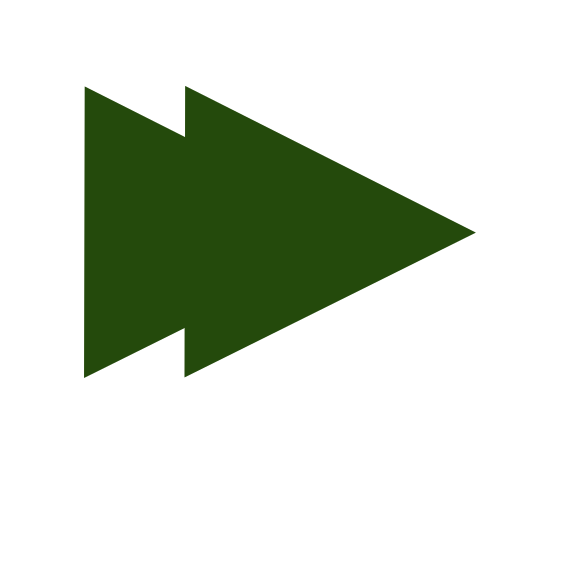
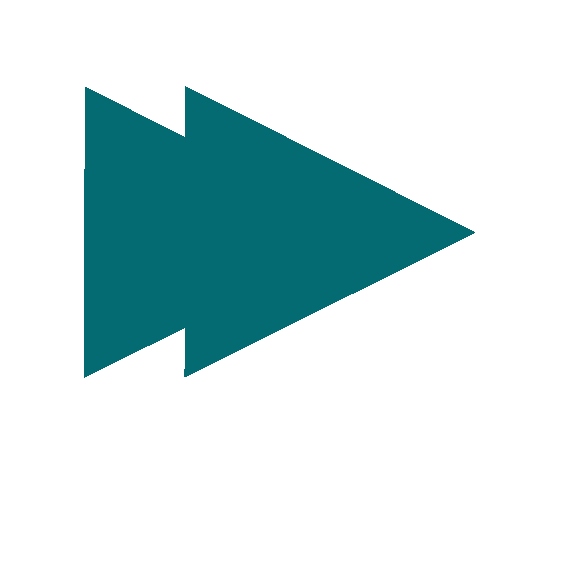
estilos añadidos

Changed region(s): [[0.1504, 0.1504, 0.8425, 0.6619]]

diff --git a/CuatroEnRayaSockets/build/classes/scripts/css/EstiloPrincipal.css b/CuatroEnRayaSockets/build/classes/scripts/css/EstiloPrincipal.css
@@ -1,0 +1,43 @@
+.borderPane {
+    -fx-background-color: #09CBD9;
+}
+
+.paneles {
+    -fx-background-color: #79e3f1;
+    -fx-border-color: #056B73;
+    -fx-border-width: 2px;
+}
+
+.paneles Label{
+    -fx-text-fill: #056B73;
+}
+
+.text-field {
+    -fx-background-color: #09D7E6;
+    -fx-text-fill: #056B73;
+}
+
+.button {
+    -fx-background-color: #09D7E6;
+    -fx-text-fill: #056B73;
+}
+
+.button:hover {
+    -fx-background-color: #05A3B3;
+    -fx-text-fill: white;
+}
+
+.combo-box{
+    -fx-background-color: #09D7E6;
+    -fx-text-fill: #056B73;
+}
+
+.combo-box .list-view .list-cell {
+    -fx-background-color: #09D7E6;
+    -fx-text-fill: black;
+}
+
+.combo-box .list-view .list-cell:hover{
+    -fx-background-color: #79e3f1;
+    -fx-text-fill: black;
+}

diff --git a/CuatroEnRayaSockets/src/scripts/css/EstiloPrincipal.css b/CuatroEnRayaSockets/src/scripts/css/EstiloPrincipal.css
@@ -1,0 +1,43 @@
+.borderPane {
+    -fx-background-color: #09CBD9;
+}
+
+.paneles {
+    -fx-background-color: #79e3f1;
+    -fx-border-color: #056B73;
+    -fx-border-width: 2px;
+}
+
+.paneles Label{
+    -fx-text-fill: #056B73;
+}
+
+.text-field {
+    -fx-background-color: #09D7E6;
+    -fx-text-fill: #056B73;
+}
+
+.button {
+    -fx-background-color: #09D7E6;
+    -fx-text-fill: #056B73;
+}
+
+.button:hover {
+    -fx-background-color: #05A3B3;
+    -fx-text-fill: white;
+}
+
+.combo-box{
+    -fx-background-color: #09D7E6;
+    -fx-text-fill: #056B73;
+}
+
+.combo-box .list-view .list-cell {
+    -fx-background-color: #09D7E6;
+    -fx-text-fill: black;
+}
+
+.combo-box .list-view .list-cell:hover{
+    -fx-background-color: #79e3f1;
+    -fx-text-fill: black;
+}

diff --git a/CuatroEnRayaSockets/src/scripts/FXMLCuatroEnRayaController.java b/CuatroEnRayaSockets/src/scripts/FXMLCuatroEnRayaController.java
@@ -69,7 +69,8 @@ public class FXMLCuatroEnRayaController implements Initializable {
     public int[][] tableroLogico;
     Socket cliente;
     int limPuntos;
-    
+    int numFichas;
+    int capMaxFichas = 49;
     
     @Override
     public void initialize(URL url, ResourceBundle rb) {
@@ -81,15 +82,17 @@ public class FXMLCuatroEnRayaController implements Initializable {
         c5.setOnAction(c -> {introducir(5);});
         c6.setOnAction(c -> {introducir(6);});
         tableroLogico = new int[7][7];
+        numFichas = 0;
     }    
     
     public int introducir(int c){
         if(!turno){ return -1;}
         if(tableroLogico[1][c] != 0){ return -1;}
-        
+        if(capMaxFichas == numFichas){ vaciarTablero(); numFichas = 0;}
+        numFichas++;
         Circle circle = new Circle();
-        circle.setRadius(20);
-        Paint paint = (Paint) Color.BLUE;
+        circle.setRadius(25);
+        Paint paint = (Paint) Color.YELLOW;
         circle.setFill(paint);
         
         int f = 1;
@@ -134,7 +137,7 @@ public class FXMLCuatroEnRayaController implements Initializable {
                 
                 Platform.runLater(() -> { //Esto se usa ya que en un hilo que no sea el de JavaFX no se pueden cambiar cosas gráficas, por lo que de esta forma se accede al hilo de JavaFX
                     Circle circle = new Circle();
-                    circle.setRadius(20);
+                    circle.setRadius(25);
                     Paint paint = (Paint) Color.RED;
                     circle.setFill(paint);
                     tablero.add(circle, c, f);

diff --git a/CuatroEnRayaSockets/src/scripts/FXMLInicioController.java b/CuatroEnRayaSockets/src/scripts/FXMLInicioController.java
@@ -3,11 +3,13 @@ package scripts;
 import java.io.IOException;
 import java.net.URL;
 import java.util.ResourceBundle;
+import javafx.beans.binding.Bindings;
 import javafx.fxml.FXML;
 import javafx.fxml.FXMLLoader;
 import javafx.fxml.Initializable;
 import javafx.scene.Parent;
 import javafx.scene.Scene;
+import javafx.scene.control.Button;
 import javafx.scene.control.TextField;
 import javafx.scene.image.ImageView;
 import javafx.stage.Stage;
@@ -24,11 +26,23 @@ public class FXMLInicioController implements Initializable {
     private TextField servidorPort;
     @FXML
     private ImageView servidor;
+    @FXML
+    private Button bCliente;
+    @FXML
+    private Button bServidor;
     
     
     @Override
     public void initialize(URL url, ResourceBundle rb) {
         servidor.setOpacity(0.2);
+        
+        bCliente.disableProperty().bind(Bindings.createBooleanBinding(
+                () -> clienteIP.getText().isEmpty() || clientePort.getText().isEmpty(),
+                clienteIP.textProperty(),
+                clientePort.textProperty()
+        ));
+
+        bServidor.disableProperty().bind(Bindings.isEmpty(servidorPort.textProperty()));
     }
     
     @FXML
